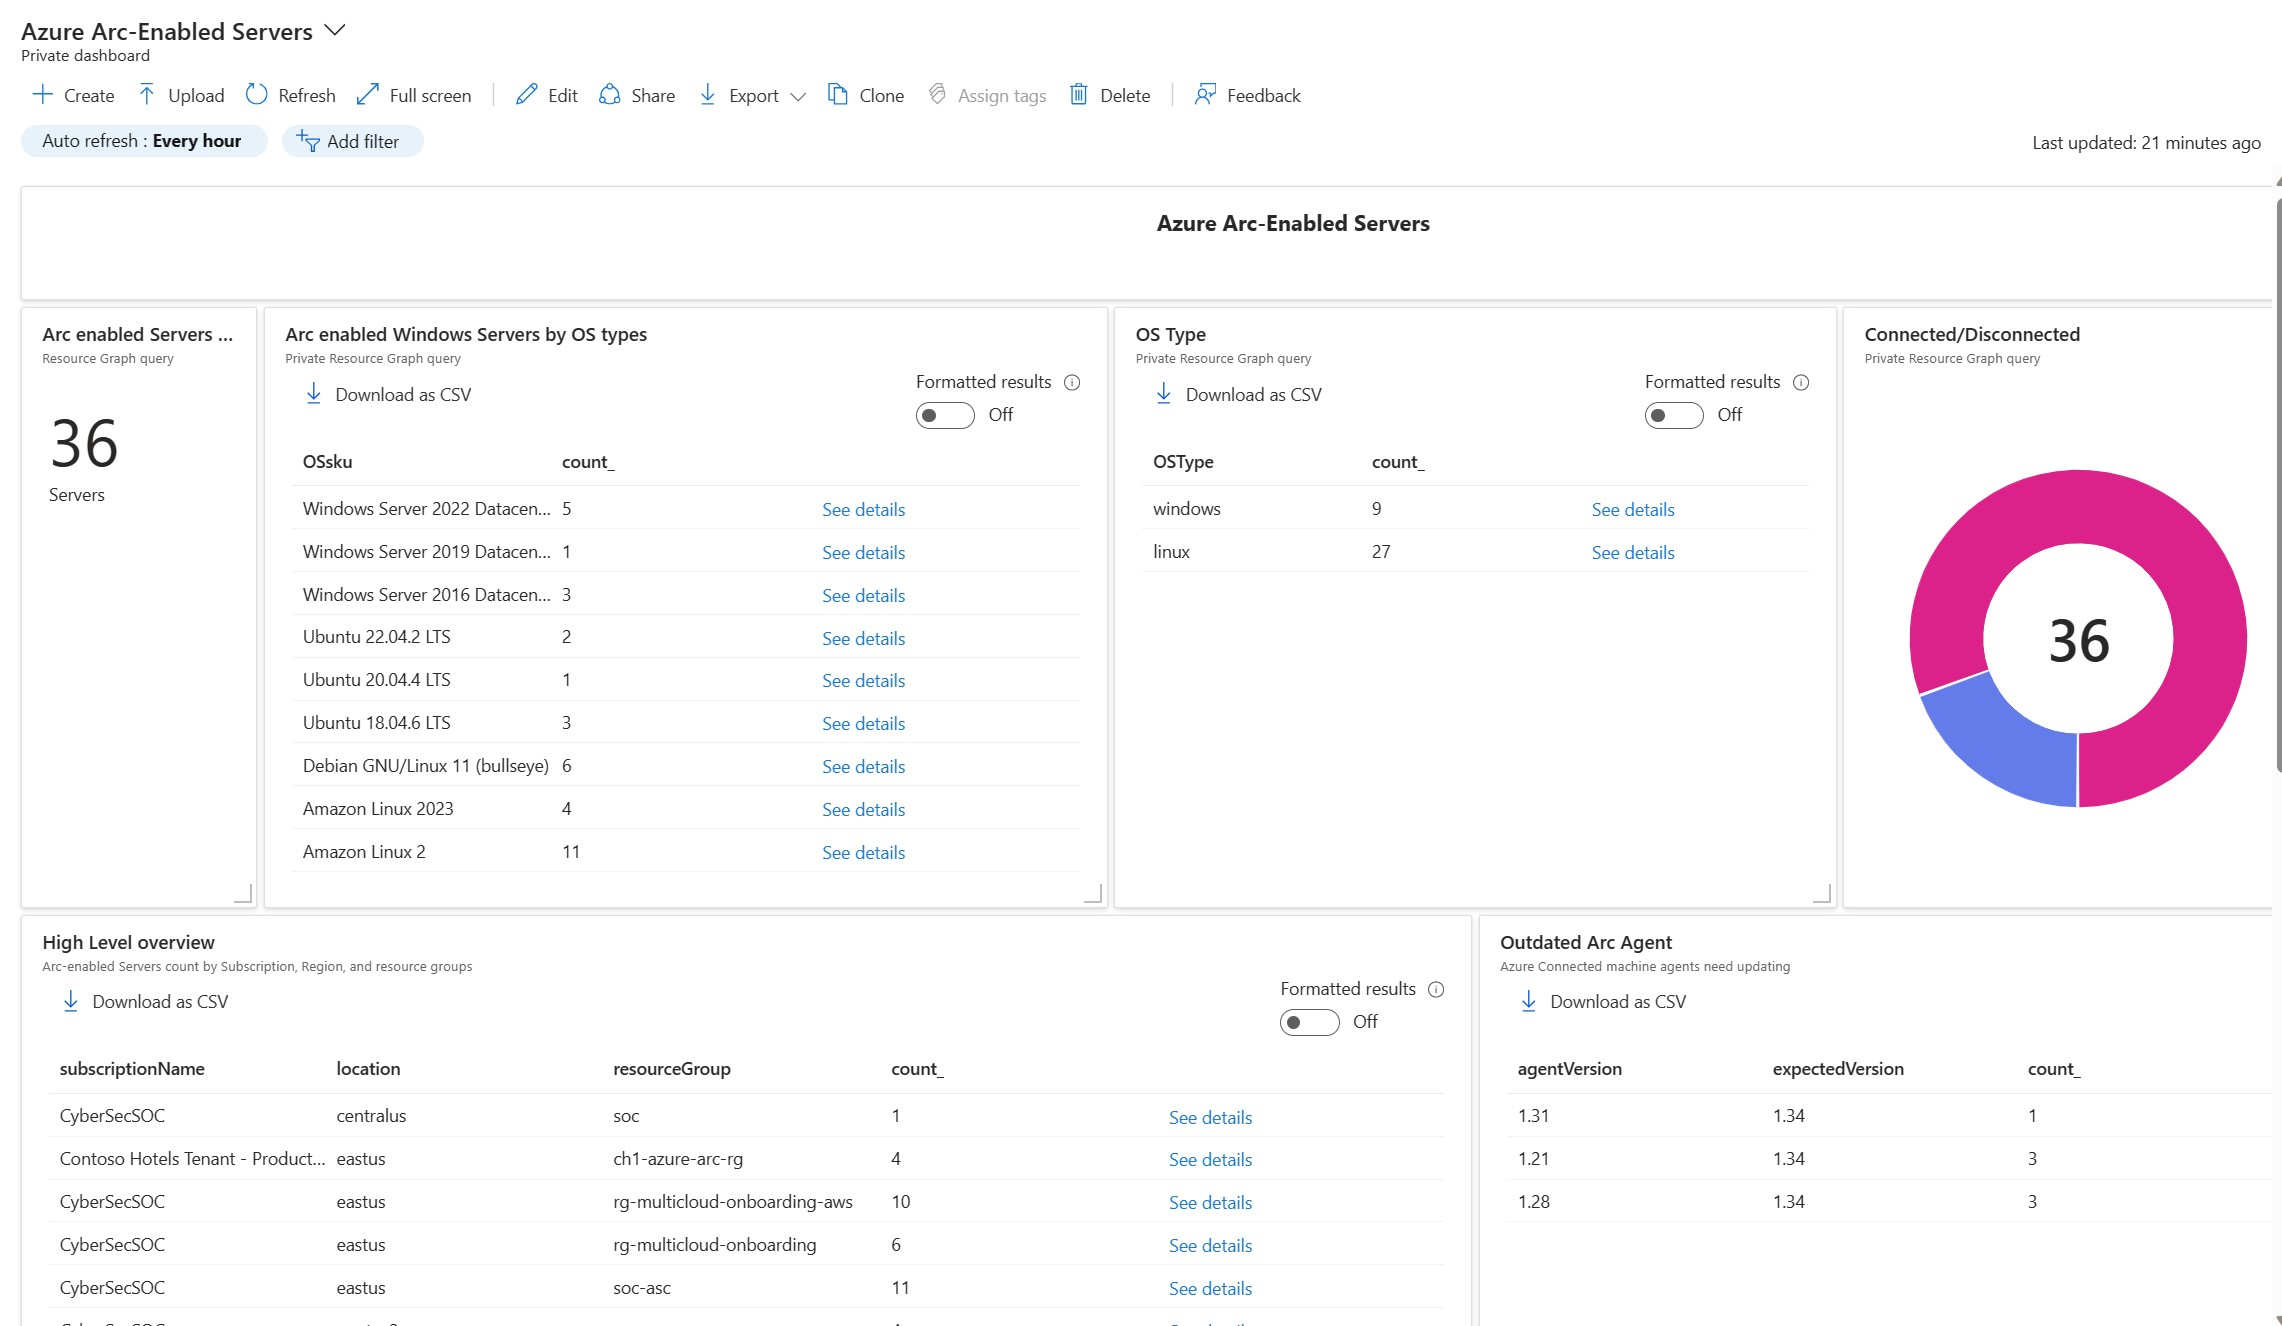
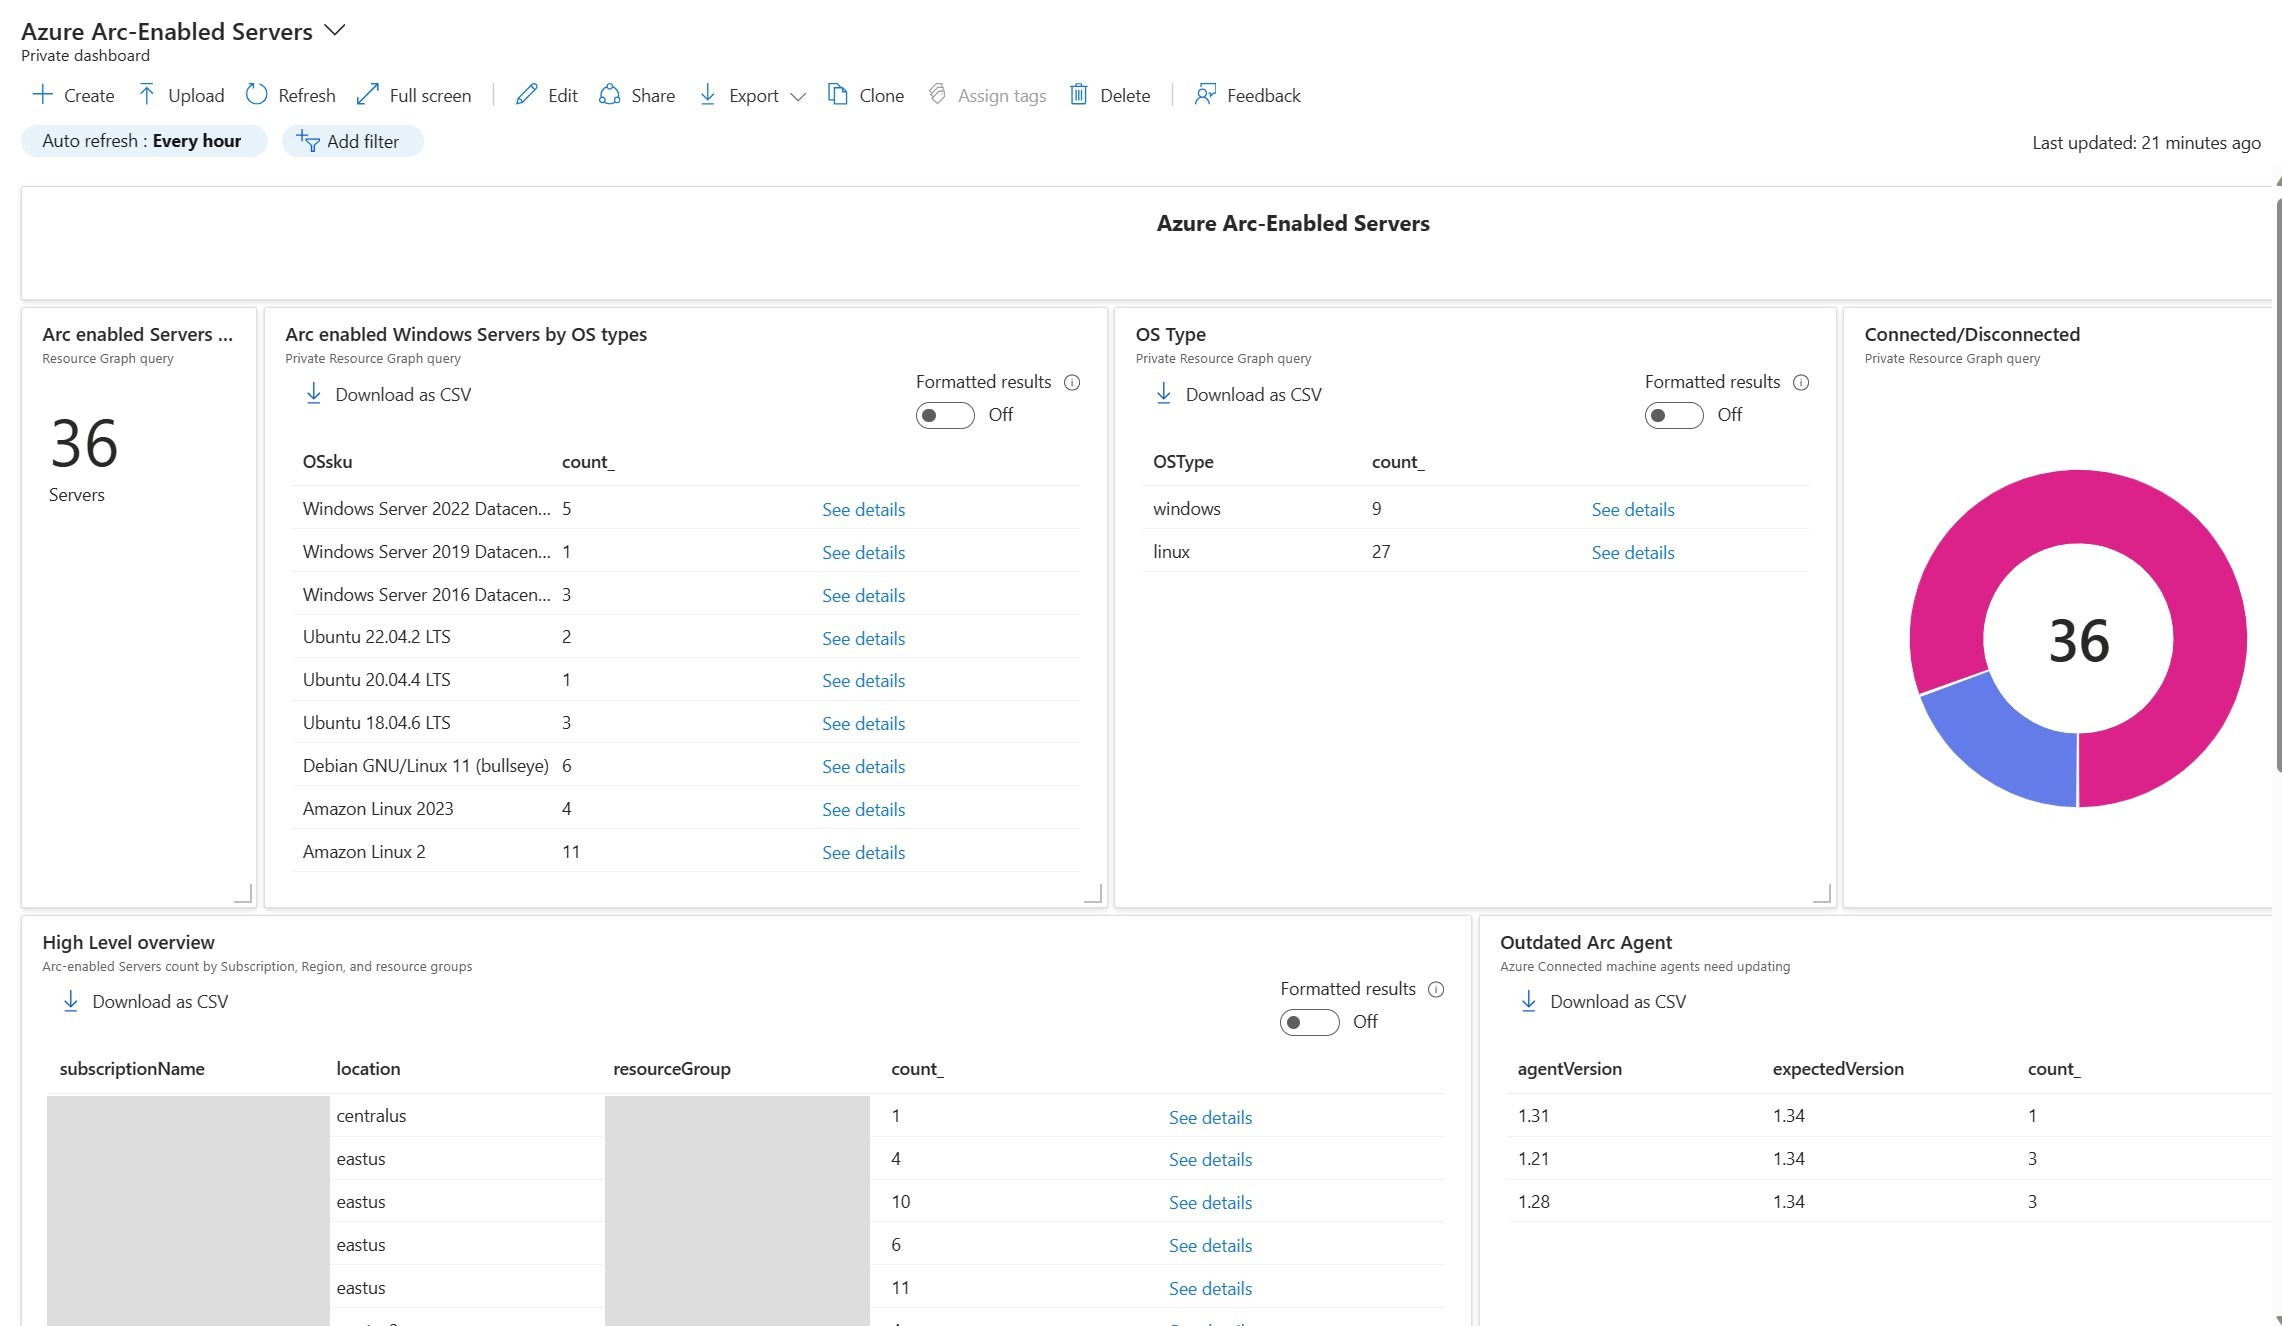
ci, docs: add a repository PII scan, redact Arc screenshots, tidy AVD .gitignore
- .github/scripts/Test-RepoPii.ps1: self-tested scanner for secrets, personal e-mail,
  tenant domains, real-looking GUIDs, local user paths, public IPs, report output files
  and commit identities; warns when an image is added.
- .github/pii-allowlist.json: exact-value exceptions with a reason (built-in role ids).
- .github/workflows/repo-pii-scan.yml: runs the self-test and the scan on PRs, main and manually.
- azure-arc/images: real subscription and resource group names redacted in two screenshots.
- AVD/.gitignore: wildcard instead of one specific report file name.
- CONTRIBUTING and audit r13 (V-44) updated.

Changed region(s): [[0.2489, 0.8039, 0.4045, 1.0], [0.0, 0.8039, 0.1556, 1.0]]

diff --git a/Assessments/VMSKURetirementReport/docs/REPOSITORY_AUDIT.md b/Assessments/VMSKURetirementReport/docs/REPOSITORY_AUDIT.md
@@ -9,7 +9,7 @@
 > | | |
 > |---|---|
 > | **Audit date** | 2026-10-16 |
-> | **Revision** | r2 — adds AUD-033 and AUD-034 after the GitHub Actions run history was checked (r1 had only read the workflow files) and corrects the CI and build ratings. r3 — runs the fault-injection scenarios: AUD-007 and AUD-013 become Confirmed, AUD-013 is re-rated from Medium to Low, and AUD-007 and AUD-016 gain executed evidence. r4 — corrects the image-tag advice in AUD-034 (the floating `7.2-ubuntu-22.04` tag is a stale 2022 build; `lts-7.2-ubuntu-22.04` is PowerShell 7.2.24). r5 — records the owner decision that no further code is changed for Linux or macOS (failures there are reported only) and notes that the CI repair on the branch is verified on Windows only. r6 — supersedes r5: the owner decided that the tool is not intended to run on Linux, macOS or in containers, so those platforms and the PowerShell 7.2 container job are out of scope, CI becomes Windows-only (workflow change pending), and the open Linux and macOS questions are closed. r7 — the owner decided that PowerShell 7.2 and later (7.4 and later included) stay supported: the container job is replaced by a Windows job that runs the complete mock assessment under PowerShell 7.2.24 and 7.4.21 from pinned, checksum-verified archives, the Windows-only workflow and documentation changes are applied on the branch, and the supported-floor question is closed. r8 — applies step 0.1 and Phase 1 on the branch ([§3.0](#30-remediation-status-r8) lists every addressed finding): AUD-001, 005, 006, 016 and 022 are resolved and AUD-003 is partly resolved (the confidence rule; the processor catalog is still to be extended); Phases 2-5 are open. r9 — applies Phase 2 (evidence and diagnostics): AUD-007, 013, 019, 020 and 021 are resolved and the processor catalog is refreshed (AUD-003 stays partly resolved: the older series cannot be generated); Phases 3-5 are open. r10 — applies Phase 3 (selection depth and KPIs): AUD-002, 004, 012, 014 and 015 are resolved; one new finding, AUD-035 (a failed Azure Monitor call is not reported), was found while testing the rightsizing reader, is recorded and is scheduled with step 4.1; Phases 4-5 are open. r11 — applies Phases 4 and 5: AUD-008, 011, 017, 018, 023, 024, 025, 026, 027, 031, 032 and 035 are resolved; one new finding, AUD-036 (`run.log` could hold the signed-in account and object id after an Azure REST failure), was found by the new end-to-end tests, is rated Medium and is resolved; the only in-scope finding left open is AUD-003 (partly resolved). Nothing is pushed and no pull request is open. r12 — live validation against the tenant the owner named (read-only, three deallocated v7 VMs): the live Microsoft Learn parse, tenant-scoped Resource Graph over REST and over the CLI, the ARM SKU REST path, quota, Advisor and Retail Prices all work and the two Resource Graph paths give the same rows; one new Low finding, AUD-037 (Advisor "upgrade and retirement" items counted as retirement signals), is found and resolved; the report is renamed, the version is 1.2.3 and two table columns lose their date and quota lines (see the CHANGELOG). AUD-003 is re-checked and stays open as an accepted risk. |
+> | **Revision** | r2 — adds AUD-033 and AUD-034 after the GitHub Actions run history was checked (r1 had only read the workflow files) and corrects the CI and build ratings. r3 — runs the fault-injection scenarios: AUD-007 and AUD-013 become Confirmed, AUD-013 is re-rated from Medium to Low, and AUD-007 and AUD-016 gain executed evidence. r4 — corrects the image-tag advice in AUD-034 (the floating `7.2-ubuntu-22.04` tag is a stale 2022 build; `lts-7.2-ubuntu-22.04` is PowerShell 7.2.24). r5 — records the owner decision that no further code is changed for Linux or macOS (failures there are reported only) and notes that the CI repair on the branch is verified on Windows only. r6 — supersedes r5: the owner decided that the tool is not intended to run on Linux, macOS or in containers, so those platforms and the PowerShell 7.2 container job are out of scope, CI becomes Windows-only (workflow change pending), and the open Linux and macOS questions are closed. r7 — the owner decided that PowerShell 7.2 and later (7.4 and later included) stay supported: the container job is replaced by a Windows job that runs the complete mock assessment under PowerShell 7.2.24 and 7.4.21 from pinned, checksum-verified archives, the Windows-only workflow and documentation changes are applied on the branch, and the supported-floor question is closed. r8 — applies step 0.1 and Phase 1 on the branch ([§3.0](#30-remediation-status-r8) lists every addressed finding): AUD-001, 005, 006, 016 and 022 are resolved and AUD-003 is partly resolved (the confidence rule; the processor catalog is still to be extended); Phases 2-5 are open. r9 — applies Phase 2 (evidence and diagnostics): AUD-007, 013, 019, 020 and 021 are resolved and the processor catalog is refreshed (AUD-003 stays partly resolved: the older series cannot be generated); Phases 3-5 are open. r10 — applies Phase 3 (selection depth and KPIs): AUD-002, 004, 012, 014 and 015 are resolved; one new finding, AUD-035 (a failed Azure Monitor call is not reported), was found while testing the rightsizing reader, is recorded and is scheduled with step 4.1; Phases 4-5 are open. r11 — applies Phases 4 and 5: AUD-008, 011, 017, 018, 023, 024, 025, 026, 027, 031, 032 and 035 are resolved; one new finding, AUD-036 (`run.log` could hold the signed-in account and object id after an Azure REST failure), was found by the new end-to-end tests, is rated Medium and is resolved; the only in-scope finding left open is AUD-003 (partly resolved). Nothing is pushed and no pull request is open. r12 — live validation against the tenant the owner named (read-only, three deallocated v7 VMs): the live Microsoft Learn parse, tenant-scoped Resource Graph over REST and over the CLI, the ARM SKU REST path, quota, Advisor and Retail Prices all work and the two Resource Graph paths give the same rows; one new Low finding, AUD-037 (Advisor "upgrade and retirement" items counted as retirement signals), is found and resolved; the report is renamed, the version is 1.2.3 and two table columns lose their date and quota lines (see the CHANGELOG). AUD-003 is re-checked and stays open as an accepted risk. r13 — a repository-wide PII review (not a finding of the VM tool, see V-44): the tool's own files are clean; two Azure Arc dashboard screenshots showed real subscription and resource group names and are redacted, a stale report file name is removed from `AVD/.gitignore`, and a `Repository PII scan` workflow with a self-tested scanner is added. Two exposures that exist only in the public history (a personal commit e-mail on older commits and a few old subscription-like GUIDs) are accepted, because rewriting the history of a public repository is not recommended. |
 > | **Repository** | `AzaryaShaulov/Azure` (monorepo, 152 tracked files, no submodules) |
 > | **Baseline** | branch `modernizationv6`, HEAD `0b4e8a3`, plus 23 **staged, uncommitted** changes (the review-fix batch). `git status` was identical before and after the instrumented test run. |
 > | **Primary scope** | `Assessments/VMSKURetirementReport` — tool v1.2.0 (PowerShell 7.2+, read-only Azure VM SKU retirement and modernization assessment) |
@@ -653,6 +653,7 @@ disclaimers, the reproducible sample, SHA-pinned CI and the locked test tooling.
 | V-41 | Phase 5 documents (r11, AUD-011, 017, 031) | The relative links of the root `SECURITY.md` resolved and its advisory URL compared with the issue-template configuration; the agent front matter parsed with PyYAML (temporary install, removed); the schema document compared with a run that has modernization, rightsizing and pricing switched on (executed) | Links resolve and the URL matches; the front matter parses; before the fix the document lacked `lifecycle.LifecycleStage` and had the column order wrong (39 positions); now the key sets of eight objects, the 88-column order and the set of grouped columns match. The new schema tests are red against the previous document and green now. One failure of that test group's own run (no `assessment.json` in its first execution) did not recur in 30 standalone runs and 5 repeated runs of the group; the test now prints the run's log if it does |
 | V-42 | Phase 5.5 fixes (r11, AUD-018, 023, 024, 032) | The new tests against `git archive` of the previous commit (expected red) and the changed code; the Microsoft Learn page "Upgrade Gen1 VMs to Trusted launch" read on 2026-10-17; the regenerated sample classified line by line against the committed one; browser smoke; the sample build and smoke run under PowerShell 7.2.24 and 7.4.21 (executed) | 9 cases red before (8 new, 1 changed: the hover-text test); the other 19 new cases (the quota percentage and the named operating systems) pin existing behaviour. Learn excludes Windows Server 2016, Azure Linux, Debian and any OS not on its supported list; the code's list is unchanged. Gate: Lint and Version clean, 474 tests, SampleDiff matches; the sample changed only in the footer, the Gen1 validation item, the NVMe item, one hover text, the embedded CSS and timestamps; browser smoke 14 of 14; the sample is equivalent on 7.2.24 and 7.4.21 |
 | V-43 | Live validation (r12) | The tool (v1.2.3, read-only) against the tenant the owner named, outside the repository and with no output committed: a full run with `-TenantId` (tenant-scoped Resource Graph over REST, live Microsoft Learn, live ARM SKU REST, quota, Advisor, Retail Prices, `--check-modernization`, `-IncludeRightsizing`); a second run without `-TenantId` (Resource Graph through the CLI) compared cell by cell; real `az` failures (unknown region, unknown subscription, invalid query) through `Invoke-AzJson`; a real Azure Monitor batch call for a nonexistent resource under a transcript, followed by `Protect-RunLog` (executed) | The estate has 3 subscriptions and 3 deallocated Windows VMs on `Standard_D2s_v7` (2) and `Standard_D4s_v7`, all in eastus2. Run 1 exits 0 in 64 s with no warnings and no `collectionIssues`: 35 Learn series parsed live, 0 unmapped, no catalog warning, SKU REST used without the CLI fallback, quota and pricing done; the 3 VMs are `Not End of Life` with no action; the account is masked everywhere and no file holds the raw account. Run 2 gives 0 differing cells (pricing excluded) in the VM CSV. Real `az` errors come back as readable reasons and never crash a tolerant call. The metrics call answered the nonexistent resource without an error, so a real Azure Monitor 403 body was **not** obtained. The estate has no retiring size and no running VM, so the lifecycle, candidate, rightsizing and quota-shortage paths were not exercised live. The run also showed that the live Resource SKUs data reports the disk controller (NVMe) for these v7 VMs. It found AUD-037. |
+| V-44 | Repository PII review and scan (r13) | A read-only scan of the 155 tracked files and of the commit history for secrets, e-mail addresses, tenant domains, GUIDs, local paths, IP addresses, phone numbers and report output files; the images read by eye; then the new `Test-RepoPii.ps1` scanner: a self-test on a temporary repository with one planted violation per rule and a clean control, a scan of the real tree, and a scan with `-BaseRef origin/main`; `actionlint` 1.7.12 (checksum-verified) on the new workflow (executed) | The VM tool's files, sample, tests and screenshots hold only synthetic data. Found outside the tool: two Azure Arc screenshots with real subscription and resource group names (redacted now), a stale report file name in `AVD/.gitignore` (made a wildcard), a personal e-mail on 61 older commits of `main` and five subscription-like GUIDs that exist only in history (both accepted, no history rewrite). The scanner's self-test passes; a first run flagged `Public` followed by a full stop and the four-part `contentVersion` of two ARM templates as findings, both were fixed in the scanner; the real tree then has no findings and the branch commits only give three image warnings (the regenerated report screenshots, synthetic). The workflow is clean under `actionlint`. Not covered: issues, pull-request text, Actions logs and forks. Owner action: the two GitHub e-mail privacy settings ("Keep my email addresses private", "Block command line pushes that expose my email") |
 
 ### 10.2 Not tested
 

diff --git a/Assessments/VMSKURetirementReport/CONTRIBUTING.md b/Assessments/VMSKURetirementReport/CONTRIBUTING.md
@@ -11,7 +11,12 @@ mappings, rule improvements, report UX and docs.
 3. **Never guess.** If something cannot be verified, label it (`Unable to Verify`, `Unable to Confirm`) rather than
    inferring it.
 4. **No real customer data.** Tests, fixtures, screenshots and issues must use synthetic data such as `Contoso`,
-   `11111111-...` IDs and `*.example` domains.
+   `11111111-...` IDs and `*.example` domains. Never commit a real report folder, `run.log`, or a screenshot that shows real
+   subscription, tenant, resource group or server names. The `Repository PII scan` workflow
+   (`.github/workflows/repo-pii-scan.yml`) checks for secrets, personal e-mail addresses, tenant domains, real-looking GUIDs,
+   local user paths, public IP addresses and report output files, and warns when an image is added. To run it locally, use
+   `pwsh .github/scripts/Test-RepoPii.ps1` from the repository root. A justified exception goes into
+   `.github/pii-allowlist.json` as an exact value with a reason.
 
 ## Development setup
 
